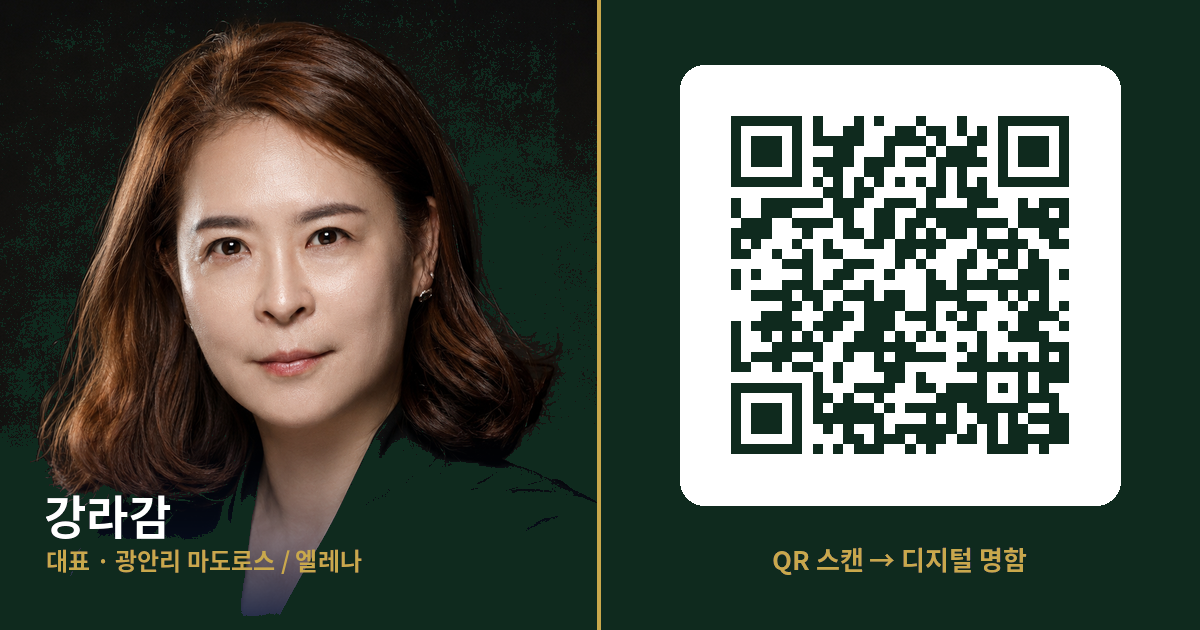
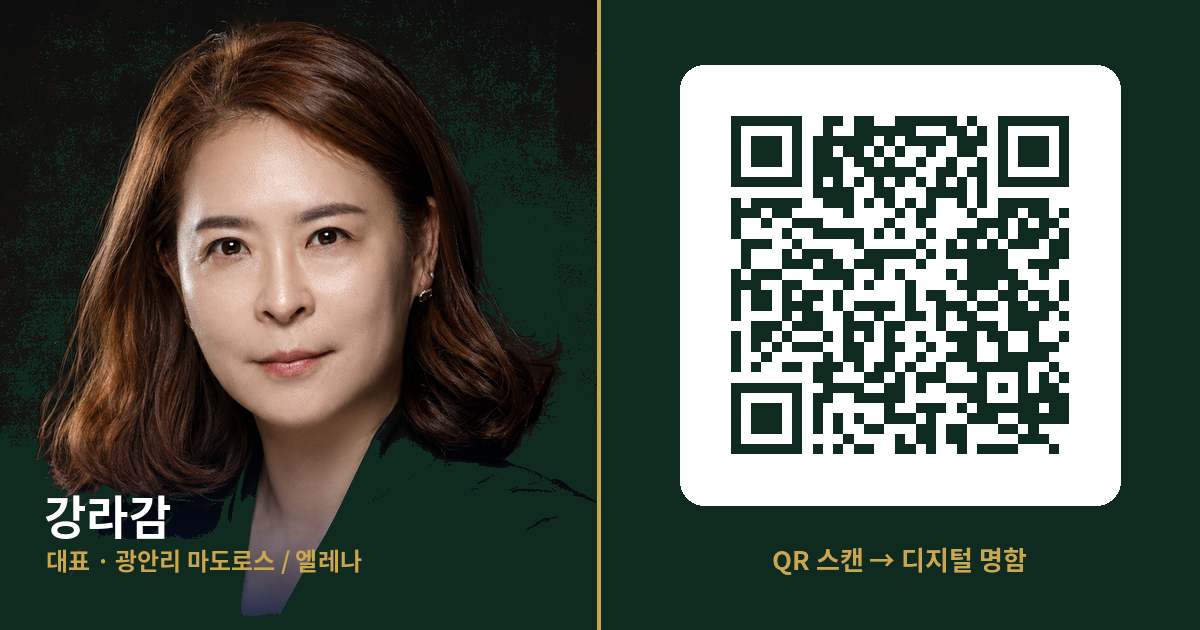
Add files via upload

Changed region(s): [[0.5858, 0.181, 0.8942, 0.7238]]

diff --git a/강라감/index.html b/강라감/index.html
@@ -6,11 +6,11 @@
 <title>강라감 | 광안리 마도로스 · 엘레나</title>
 <meta property="og:title" content="강라감 | 대표 · 광안리 마도로스 · 엘레나">
 <meta property="og:description" content="광안리 3층, 통창 너머로 광안대교가 그대로 들어옵니다. 회는 제가 직접 칼을 잡습니다. 단체 최대 100명.">
-<meta property="og:image" content="https://jinjjabg-hub.github.io/NAMECARD/%EA%B0%95%EB%9D%BC%EA%B0%90/og.png">
+<meta property="og:image" content="https://jinjjabg-hub.github.io/bni-giants/%EA%B0%95%EB%9D%BC%EA%B0%90/og.png">
 <meta property="og:image:width" content="1200">
 <meta property="og:image:height" content="630">
 <meta property="og:type" content="website">
-<meta property="og:url" content="https://jinjjabg-hub.github.io/NAMECARD/강라감/">
+<meta property="og:url" content="https://jinjjabg-hub.github.io/bni-giants/강라감/">
 <link rel="preconnect" href="https://fonts.googleapis.com">
 <link rel="preconnect" href="https://fonts.gstatic.com" crossorigin>
 <link href="https://fonts.googleapis.com/css2?family=Noto+Sans+KR:wght@300;400;500;700&family=Noto+Sans+JP:wght@400;700&family=Noto+Sans+SC:wght@400;700&family=Black+Han+Sans&display=swap" rel="stylesheet">
@@ -981,7 +981,7 @@ TEL;TYPE=CELL:010-4301-7181
 TEL;TYPE=WORK:0507-1431-3950
 TEL;TYPE=WORK:051-638-7181
 EMAIL:leo0007@naver.com
-URL:https://jinjjabg-hub.github.io/NAMECARD/강라감/
+URL:https://jinjjabg-hub.github.io/bni-giants/강라감/
 ADR;TYPE=WORK:;;부산 수영구 광안로61번길 60 3층 306호;부산;;;대한민국
 NOTE:두 개의 별도 매장을 운영합니다 — ① 광안리 마도로스(회·딱새우·스시·명품물회, 0507-1431-3950, 최대 100명/룸30명) ② 이탈리안 다이닝 엘레나(문현동, 051-638-7181, 최대 30명 단독대관)
 END:VCARD`;
@@ -993,7 +993,7 @@ END:VCARD`;
 }
 
 /* ── 명함 전달하기 ── */
-const CARD_URL = 'https://jinjjabg-hub.github.io/NAMECARD/%EA%B0%95%EB%9D%BC%EA%B0%90/';
+const CARD_URL = 'https://jinjjabg-hub.github.io/bni-giants/%EA%B0%95%EB%9D%BC%EA%B0%90/';
 const CARD_TITLE = '강라감 | 광안리 마도로스 · 엘레나';
 const CARD_TEXT = '광안리 3층, 통창 너머 광안대교. 회는 사장이 직접 씁니다. 단체 최대 100명.';
 
